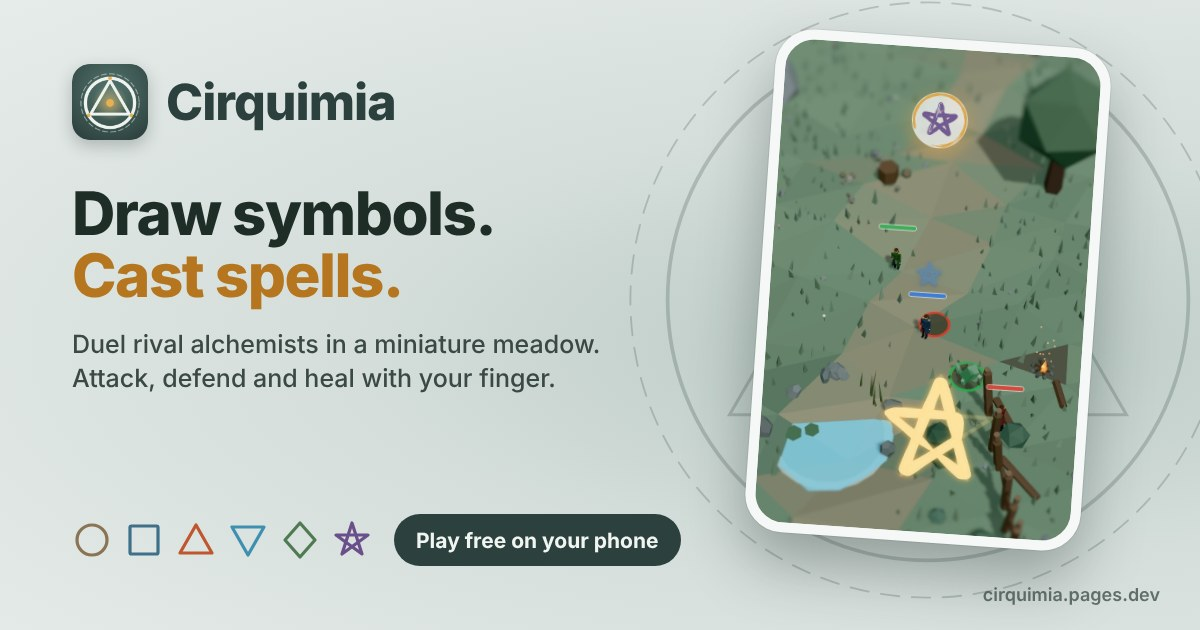
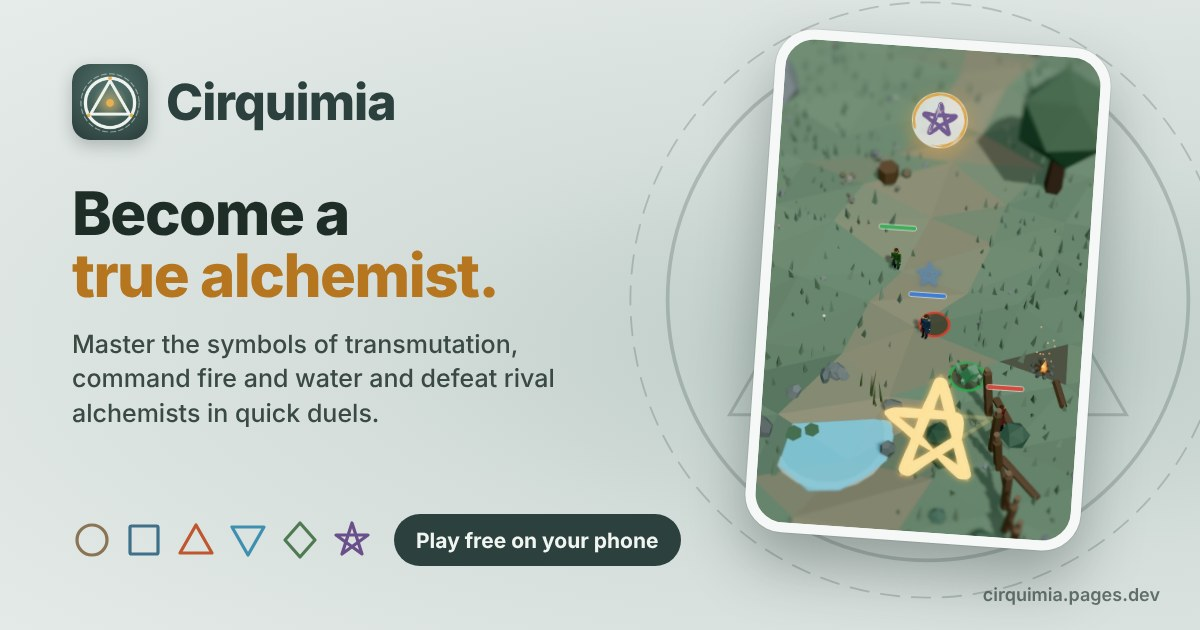
Pitch the social card as an alchemy duel instead of drawing spells
Rewrites title, meta/OG/Twitter descriptions, JSON-LD, noscript and manifest
copy in both languages around 'Become a true alchemist', and regenerates the
OG images whose headline is baked in.

Claude-Session: https://claude.ai/code/session_01WWzoGZtkugr2mDTfLbGqDY

Changed region(s): [[0.0617, 0.5127, 0.4933, 0.6937], [0.0617, 0.3016, 0.4317, 0.4825]]

diff --git a/src/i18n/seo.ts b/src/i18n/seo.ts
@@ -8,27 +8,27 @@ export const SITE_URL = 'https://cirquimia.pages.dev';
 
 const copy = {
   en: {
-    title: 'Cirquimia · Draw symbols to cast alchemy spells',
-    description: 'You are an alchemist in a miniature meadow: draw circles, triangles and stars with your finger to cast spells at your rivals. Free to play on your phone.',
-    ogTitle: 'Cirquimia · Draw symbols to cast spells',
-    ogDescription: 'Duel as an alchemist in a miniature meadow. Draw symbols with your finger to attack, defend and heal. Free to play in your phone’s browser.',
-    ogImageAlt: 'The Cirquimia alchemist casting a spell in a low poly miniature meadow',
-    jsonLd: 'Browser game: an alchemist draws symbols to cast spells in a miniature meadow.',
+    title: 'Cirquimia · Become a true alchemist',
+    description: 'An alchemy duel game: master the symbols of transmutation, command fire and water and defeat rival alchemists in a miniature meadow. Free on your phone.',
+    ogTitle: 'Cirquimia · Become a true alchemist',
+    ogDescription: 'Master the symbols of transmutation, command fire and water and defeat rival alchemists in quick duels. Free, right on your phone.',
+    ogImageAlt: 'The Cirquimia alchemist mid-duel in a low poly miniature meadow',
+    jsonLd: 'Browser alchemy duel game: master transmutation, command fire and water and defeat rival alchemists in a miniature meadow.',
     genre: ['Action', 'Strategy'],
     platform: 'Web browser',
-    noscript: 'Cirquimia is an alchemy game: draw symbols to cast spells in a miniature meadow. Turn on JavaScript to play.',
+    noscript: 'Cirquimia is an alchemy duel game: become a true alchemist and defeat your rivals in a miniature meadow. Turn on JavaScript to play.',
     manifest: 'manifest.webmanifest',
   },
   es: {
-    title: 'Cirquimia · Dibuja símbolos y lanza hechizos de alquimia',
-    description: 'Eres un alquimista en una pradera en miniatura: dibuja círculos, triángulos y estrellas con el dedo para lanzar hechizos contra tus rivales. Gratis en el móvil.',
-    ogTitle: 'Cirquimia · Dibuja símbolos para lanzar hechizos',
-    ogDescription: 'Eres un alquimista que se bate en duelo en una pradera en miniatura. Dibuja símbolos con el dedo para atacar, defenderte y curarte. Juega gratis desde el móvil.',
-    ogImageAlt: 'El alquimista de Cirquimia lanzando un hechizo en una pradera low poly en miniatura',
-    jsonLd: 'Juego de navegador: un alquimista dibuja símbolos para lanzar hechizos en una pradera en miniatura.',
+    title: 'Cirquimia · Conviértete en un verdadero alquimista',
+    description: 'Un juego de duelos de alquimia: domina los símbolos de la transmutación, controla el fuego y el agua y derrota a alquimistas rivales en una pradera en miniatura. Gratis en el móvil.',
+    ogTitle: 'Cirquimia · Conviértete en un verdadero alquimista',
+    ogDescription: 'Domina los símbolos de la transmutación, controla el fuego y el agua y derrota a alquimistas rivales en duelos rápidos. Gratis, directo en tu móvil.',
+    ogImageAlt: 'El alquimista de Cirquimia en pleno duelo en una pradera low poly en miniatura',
+    jsonLd: 'Juego de duelos de alquimia en el navegador: domina la transmutación, controla el fuego y el agua y derrota a alquimistas rivales en una pradera en miniatura.',
     genre: ['Acción', 'Estrategia'],
     platform: 'Navegador web',
-    noscript: 'Cirquimia es un juego de alquimia: dibuja símbolos para lanzar hechizos en una pradera en miniatura. Activa JavaScript para jugar.',
+    noscript: 'Cirquimia es un juego de duelos de alquimia: conviértete en un verdadero alquimista y derrota a tus rivales en una pradera en miniatura. Activa JavaScript para jugar.',
     manifest: 'manifest.es.webmanifest',
   },
 } satisfies Record<Locale, unknown>;

diff --git a/scripts/brand/og.html b/scripts/brand/og.html
@@ -52,8 +52,8 @@
   <div class="url">cirquimia.pages.dev</div>
   <script>
     const copy = {
-      en: { title: 'Draw symbols.<br><em>Cast spells.</em>', sub: 'Duel rival alchemists in a miniature meadow. Attack, defend and heal with your finger.', cta: 'Play free on your phone' },
-      es: { title: 'Dibuja símbolos.<br><em>Lanza hechizos.</em>', sub: 'Bátete en duelo con alquimistas rivales en una pradera en miniatura. Ataca, defiéndete y cúrate con el dedo.', cta: 'Juega gratis en el móvil' },
+      en: { title: 'Become a<br><em>true alchemist.</em>', sub: 'Master the symbols of transmutation, command fire and water and defeat rival alchemists in quick duels.', cta: 'Play free on your phone' },
+      es: { title: 'Conviértete en un<br><em>verdadero alquimista.</em>', sub: 'Domina la transmutación, controla el fuego y el agua y vence a alquimistas rivales.', cta: 'Juega gratis en el móvil' },
     };
     const lang = new URLSearchParams(location.search).get('lang') === 'es' ? 'es' : 'en';
     const c = copy[lang];
